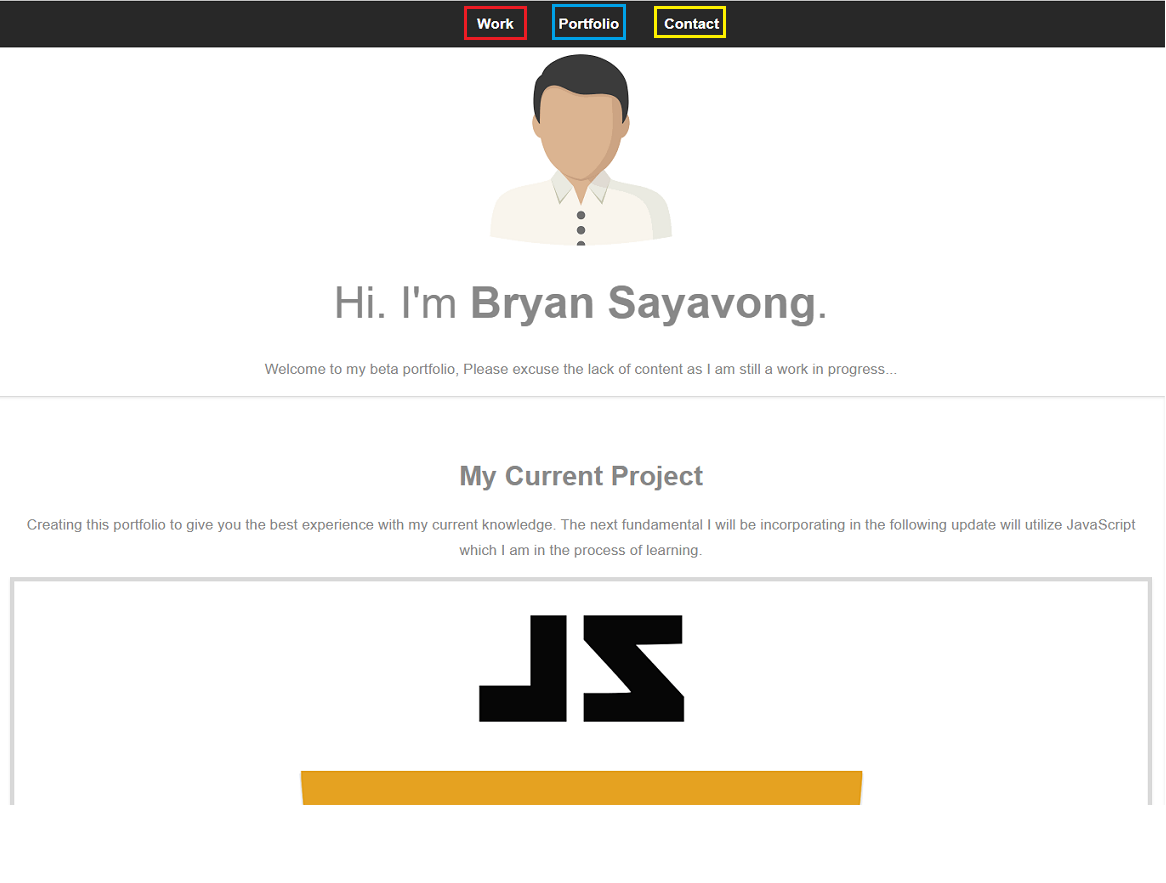
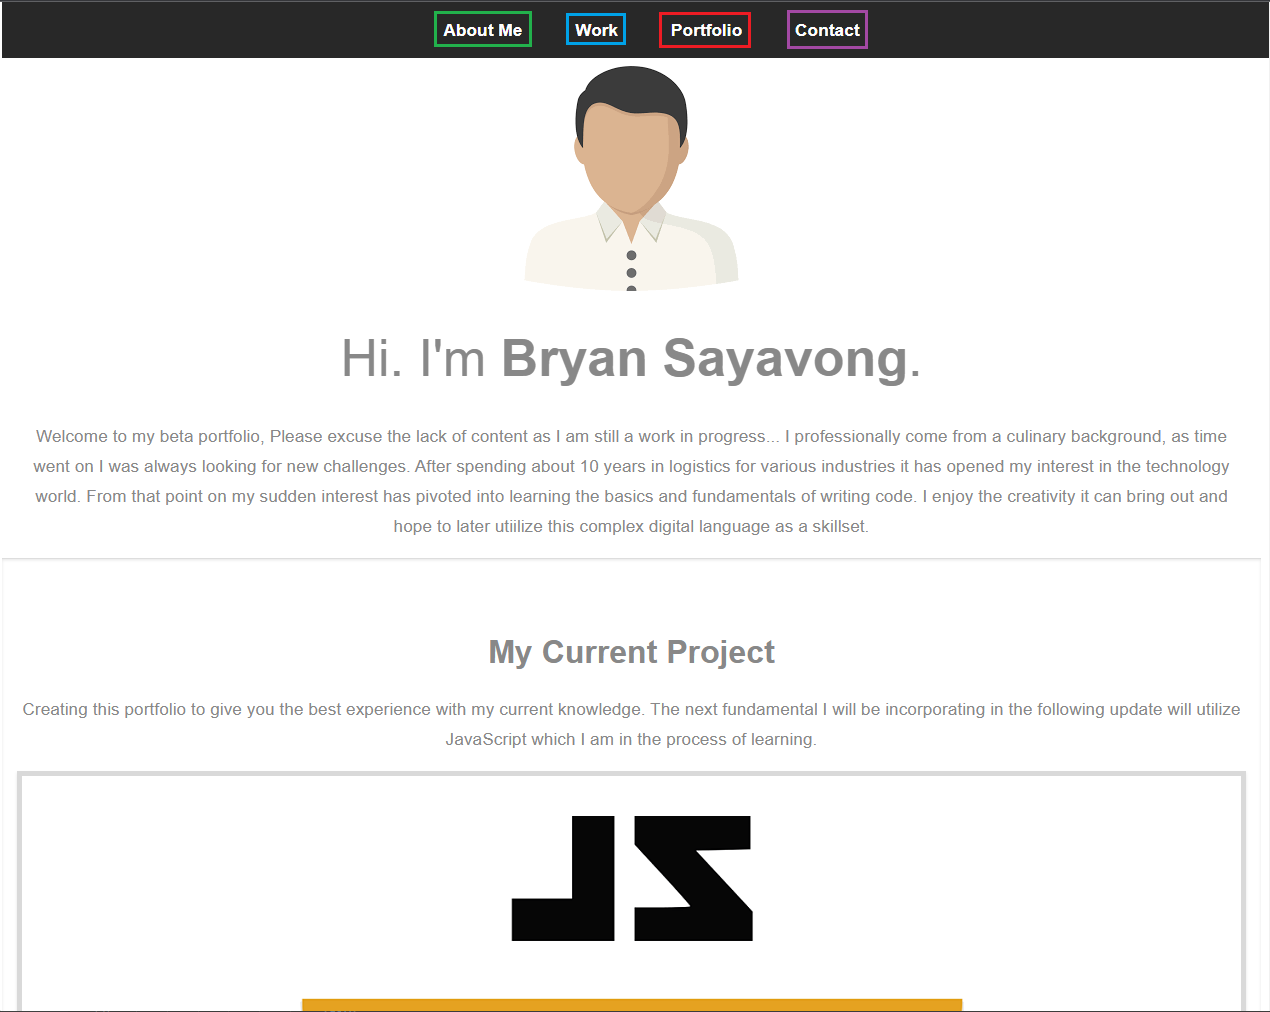
final upload before submission

diff --git a/index.html b/index.html
@@ -12,6 +12,7 @@
 
 	    <nav id="nav">
     		<ul class="container">
+                <li><a href="#About Me">About Me</a></li>
 	    		<li><a href="#work">Work</a></li>
 	    		<li><a href="#portfolio">Portfolio</a></li>
 	    		<li><a href="#contact">Contact</a></li>
@@ -27,6 +28,10 @@
 	    	        </header>
                     <p> Welcome to my beta portfolio, 
                         Please excuse the lack of content as I am still a work in progress...
+                        I professionally come from a culinary background, as time went on I was always looking for new challenges.
+                        After spending about 10 years in logistics for various industries it has opened my interest in the technology world.
+                        From that point on my sudden interest has pivoted into learning the basics and fundamentals of writing code. I enjoy the creativity
+                        it can bring out and hope to later utiilize this complex digital language as a skillset.
                     </p>
 	            </div>
 	        </article>
